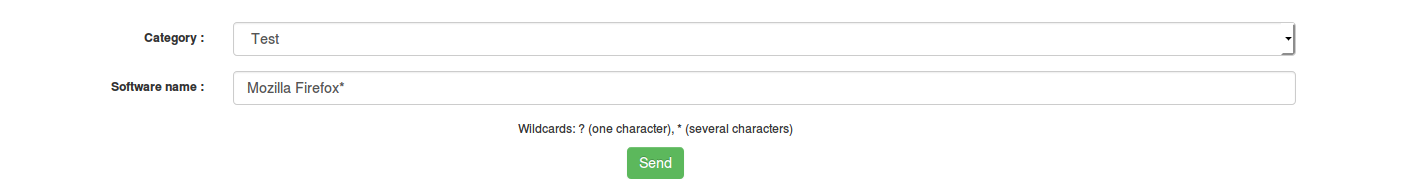
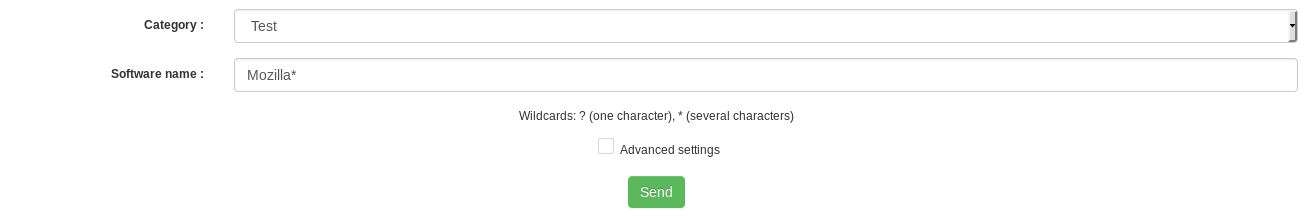
Update software categories documentation

diff --git a/english/03.Management-console-and-its-advanced-features/Using-Software-Categorization.md b/english/03.Management-console-and-its-advanced-features/Using-Software-Categorization.md
@@ -31,14 +31,18 @@ Click on the ```Add software``` tab.
 A form will be displayed, asking for two things :
 * Category
 * Software name / expression
-  
+
 ![Add regular exp](../../img/server/reports/software_categories_add_regular_exp.png)
 
 You can also add by name :
 
 ![Add by name](../../img/server/reports/software_categories_add_soft_name.png)
 
-Note : form will autocomplete with all the software available in OCS Inventory database.
+**`Note : form will autocomplete with all the software available in OCS Inventory database.`**
+
+When you choose ```Advanced Settings``` you can add by version and publisher :
+
+![Add by name](../../img/server/reports/software_categories_advance_settings.png)
 
 ## List software categories
 
@@ -66,4 +70,3 @@ At the bottom of the page, you will see a configuration named ```DEFAULT_CATEGOR
 ![Default cat](../../img/server/reports/software_categories_default_config.png)
 
 Change this value to the desired default category.
-
